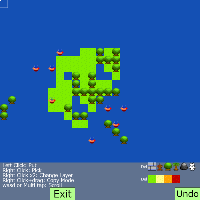
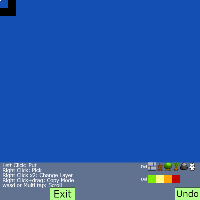
MapEditor2: w a s dでマップ移動を、押しっぱなしで高速移動するように変更。マップの境界を表示。

diff --git a/www/Tools/MapEditor2/js/concat.js b/www/Tools/MapEditor2/js/concat.js
@@ -446,6 +446,9 @@ Tonyu.klass.define({
         new Tonyu.classes.kernel.Button({left: _this.bw*0.5-_this.bhide,top: _this.h-_this.bw*1,width: _this.bw,text: "↓",key: "down",onClick: Tonyu.bindFunc(_this,_this.moveC),autoRepeat: 30});
         new Tonyu.classes.kernel.Button({left: _this.bw*0-_this.bhide,top: _this.h-_this.bw*2,width: _this.bw,text: "←",key: "left",onClick: Tonyu.bindFunc(_this,_this.moveC),autoRepeat: 30});
         new Tonyu.classes.kernel.Button({left: _this.bw*1-_this.bhide,top: _this.h-_this.bw*2,width: _this.bw,text: "→",key: "right",onClick: Tonyu.bindFunc(_this,_this.moveC),autoRepeat: 30});
+        _this.borders = [];
+        
+        _this.drawBorders();
         _this.putB = new Tonyu.classes.kernel.Button({top: _this.h-_this.bw*3,left: _this.bw*3-_this.bhide,width: 100,text: "Put",key: "space",onClick: Tonyu.bindFunc(_this,_this.put)});
         
         new Tonyu.classes.kernel.Button({top: _this.h-_this.bw*3,left: _this.bw*5-_this.bhide,width: 100,text: "Pick",key: "z",onClick: Tonyu.bindFunc(_this,_this.pick)});
@@ -454,7 +457,7 @@ Tonyu.klass.define({
           
         }
         new Tonyu.classes.kernel.Button({top: _this.h-_this.bw*1,left: _this.bw*4,width: 100,text: "Exit",key: "e",onClick: Tonyu.bindFunc(_this,_this.back)});
-        new Tonyu.classes.kernel.Button({top: _this.h-_this.bw*1,left: _this.w-100,width: 100,text: "Undo",key: "u",onClick: (function anonymous_1157() {
+        new Tonyu.classes.kernel.Button({top: _this.h-_this.bw*1,left: _this.w-100,width: 100,text: "Undo",key: "u",onClick: (function anonymous_1187() {
           
           _this.c.undo();
         })});
@@ -470,7 +473,7 @@ Tonyu.klass.define({
         
         Tonyu.globals.$Screen.setPivot(_this.sx,_this.sy);
         Tonyu.globals.$Screen.scrollTo(_this.sx,_this.sy);
-        _this.plw = Tonyu.globals.$Math.max.apply(Tonyu.globals.$Math,_this.config.layers.map((function anonymous_1635(l) {
+        _this.plw = Tonyu.globals.$Math.max.apply(Tonyu.globals.$Math,_this.config.layers.map((function anonymous_1665(l) {
           
           return l.pats.length;
         })));
@@ -479,37 +482,37 @@ Tonyu.klass.define({
         
         _this.c = new Tonyu.classes.mapEditor2.Cursor({x: 0,y: 0,curP: _this.curP});
         
-        _this.on("keyDown","c",(function anonymous_1780() {
+        _this.on("keyDown","c",(function anonymous_1810() {
           
           _this.curP.shift(1);
         }));
-        _this.on("keyDown","x",(function anonymous_1829() {
+        _this.on("keyDown","x",(function anonymous_1859() {
           
           _this.curP.shift(- 1);
         }));
-        _this.on("keyDown","q",(function anonymous_1879() {
+        _this.on("keyDown","q",(function anonymous_1909() {
           
           _this.curP.changeLayer();
         }));
-        _this.on("keyDown","d",(function anonymous_1927() {
+        _this.on("autoRepeat","d",(function anonymous_1960() {
           
           _this.scrollTo(_this.sx+32,_this.sy,_this.zoom);
         }));
-        _this.on("keyDown","a",(function anonymous_1980() {
+        _this.on("autoRepeat","a",(function anonymous_2016() {
           
           _this.scrollTo(_this.sx-32,_this.sy,_this.zoom);
         }));
-        _this.on("keyDown","s",(function anonymous_2033() {
+        _this.on("autoRepeat","s",(function anonymous_2072() {
           
           _this.scrollTo(_this.sx,_this.sy+32,_this.zoom);
         }));
-        _this.on("keyDown","w",(function anonymous_2086() {
+        _this.on("autoRepeat","w",(function anonymous_2128() {
           
           _this.scrollTo(_this.sx,_this.sy-32,_this.zoom);
         }));
         
         
-        _this.mmove = Tonyu.globals.$InputDevice.on("mouseMove",(function anonymous_2633(e) {
+        _this.mmove = Tonyu.globals.$InputDevice.on("mouseMove",(function anonymous_2675(e) {
           var cv;
           var csz;
           
@@ -529,7 +532,7 @@ Tonyu.klass.define({
           _this.lastMousePos={x: cv.x,y: cv.y};
         }));
         
-        _this.on("die",(function anonymous_2940() {
+        _this.on("die",(function anonymous_2982() {
           
           _this.mmove.remove();
         }));
@@ -540,7 +543,7 @@ Tonyu.klass.define({
         _this.mapToucher = new Tonyu.classes.kernel.Panel({width: Tonyu.globals.$screenWidth,height: _this.h-_this.menuPanel.height,layer: Tonyu.globals.$frontLayer});
         
         
-        _this.mapToucher.on("touch",(function anonymous_3381(e) {
+        _this.mapToucher.on("touch",(function anonymous_3423(e) {
           var f;
           var csz;
           var s;
@@ -564,14 +567,14 @@ Tonyu.klass.define({
             return _this;
             
           } else {
-            s = {rollbacker: _this.c.rollbacker(),finger: f,rollback: (function anonymous_3954() {
+            s = {rollbacker: _this.c.rollbacker(),finger: f,rollback: (function anonymous_3996() {
               
               s.rollbacker.rollback();
               s.endEvent.remove();
               if (s.moveEvent) {
                 s.moveEvent.remove();
               }
-            }),endEvent: f.on("end",(function anonymous_4143() {
+            }),endEvent: f.on("end",(function anonymous_4185() {
               
               _this.singleTouchState=null;
             }))};
@@ -587,7 +590,7 @@ Tonyu.klass.define({
               
             }
             _this.pick();
-            f.on("move",(function anonymous_4512(e) {
+            f.on("move",(function anonymous_4554(e) {
               var moved;
               
               moved = _this.c.sel(_this.floor(e.finger.x/csz.w),_this.floor(e.finger.y/csz.h));
@@ -613,7 +616,7 @@ Tonyu.klass.define({
               moved = _this.c.moveTo(_this.floor(e.finger.x/csz.w),_this.floor(e.finger.y/csz.h));
               
               _this.put();
-              _this.singleTouchState.moveEvent=f.on("move",(function anonymous_5121(e) {
+              _this.singleTouchState.moveEvent=f.on("move",(function anonymous_5163(e) {
                 var moved;
                 
                 moved = _this.c.moveTo(_this.floor(e.finger.x/csz.w),_this.floor(e.finger.y/csz.h));
@@ -656,6 +659,9 @@ Tonyu.klass.define({
         new Tonyu.classes.kernel.Button({left: _this.bw*0.5-_this.bhide,top: _this.h-_this.bw*1,width: _this.bw,text: "↓",key: "down",onClick: Tonyu.bindFunc(_this,_this.moveC),autoRepeat: 30});
         new Tonyu.classes.kernel.Button({left: _this.bw*0-_this.bhide,top: _this.h-_this.bw*2,width: _this.bw,text: "←",key: "left",onClick: Tonyu.bindFunc(_this,_this.moveC),autoRepeat: 30});
         new Tonyu.classes.kernel.Button({left: _this.bw*1-_this.bhide,top: _this.h-_this.bw*2,width: _this.bw,text: "→",key: "right",onClick: Tonyu.bindFunc(_this,_this.moveC),autoRepeat: 30});
+        _this.borders = [];
+        
+        (yield* _this.fiber$drawBorders(_thread));
         _this.putB = new Tonyu.classes.kernel.Button({top: _this.h-_this.bw*3,left: _this.bw*3-_this.bhide,width: 100,text: "Put",key: "space",onClick: Tonyu.bindFunc(_this,_this.put)});
         
         new Tonyu.classes.kernel.Button({top: _this.h-_this.bw*3,left: _this.bw*5-_this.bhide,width: 100,text: "Pick",key: "z",onClick: Tonyu.bindFunc(_this,_this.pick)});
@@ -664,7 +670,7 @@ Tonyu.klass.define({
           
         }
         new Tonyu.classes.kernel.Button({top: _this.h-_this.bw*1,left: _this.bw*4,width: 100,text: "Exit",key: "e",onClick: Tonyu.bindFunc(_this,_this.back)});
-        new Tonyu.classes.kernel.Button({top: _this.h-_this.bw*1,left: _this.w-100,width: 100,text: "Undo",key: "u",onClick: (function anonymous_1157() {
+        new Tonyu.classes.kernel.Button({top: _this.h-_this.bw*1,left: _this.w-100,width: 100,text: "Undo",key: "u",onClick: (function anonymous_1187() {
           
           _this.c.undo();
         })});
@@ -680,7 +686,7 @@ Tonyu.klass.define({
         
         Tonyu.globals.$Screen.setPivot(_this.sx,_this.sy);
         Tonyu.globals.$Screen.scrollTo(_this.sx,_this.sy);
-        _this.plw = Tonyu.globals.$Math.max.apply(Tonyu.globals.$Math,_this.config.layers.map((function anonymous_1635(l) {
+        _this.plw = Tonyu.globals.$Math.max.apply(Tonyu.globals.$Math,_this.config.layers.map((function anonymous_1665(l) {
           
           return l.pats.length;
         })));
@@ -689,37 +695,37 @@ Tonyu.klass.define({
         
         _this.c = new Tonyu.classes.mapEditor2.Cursor({x: 0,y: 0,curP: _this.curP});
         
-        _this.on("keyDown","c",(function anonymous_1780() {
+        _this.on("keyDown","c",(function anonymous_1810() {
           
           _this.curP.shift(1);
         }));
-        _this.on("keyDown","x",(function anonymous_1829() {
+        _this.on("keyDown","x",(function anonymous_1859() {
           
           _this.curP.shift(- 1);
         }));
-        _this.on("keyDown","q",(function anonymous_1879() {
+        _this.on("keyDown","q",(function anonymous_1909() {
           
           _this.curP.changeLayer();
         }));
-        _this.on("keyDown","d",(function anonymous_1927() {
+        _this.on("autoRepeat","d",(function anonymous_1960() {
           
           _this.scrollTo(_this.sx+32,_this.sy,_this.zoom);
         }));
-        _this.on("keyDown","a",(function anonymous_1980() {
+        _this.on("autoRepeat","a",(function anonymous_2016() {
           
           _this.scrollTo(_this.sx-32,_this.sy,_this.zoom);
         }));
-        _this.on("keyDown","s",(function anonymous_2033() {
+        _this.on("autoRepeat","s",(function anonymous_2072() {
           
           _this.scrollTo(_this.sx,_this.sy+32,_this.zoom);
         }));
-        _this.on("keyDown","w",(function anonymous_2086() {
+        _this.on("autoRepeat","w",(function anonymous_2128() {
           
           _this.scrollTo(_this.sx,_this.sy-32,_this.zoom);
         }));
         
         
-        _this.mmove = Tonyu.globals.$InputDevice.on("mouseMove",(function anonymous_2633(e) {
+        _this.mmove = Tonyu.globals.$InputDevice.on("mouseMove",(function anonymous_2675(e) {
           var cv;
           var csz;
           
@@ -739,7 +745,7 @@ Tonyu.klass.define({
           _this.lastMousePos={x: cv.x,y: cv.y};
         }));
         
-        _this.on("die",(function anonymous_2940() {
+        _this.on("die",(function anonymous_2982() {
           
           _this.mmove.remove();
         }));
@@ -750,7 +756,7 @@ Tonyu.klass.define({
         _this.mapToucher = new Tonyu.classes.kernel.Panel({width: Tonyu.globals.$screenWidth,height: _this.h-_this.menuPanel.height,layer: Tonyu.globals.$frontLayer});
         
         
-        _this.mapToucher.on("touch",(function anonymous_3381(e) {
+        _this.mapToucher.on("touch",(function anonymous_3423(e) {
           var f;
           var csz;
           var s;
@@ -774,14 +780,14 @@ Tonyu.klass.define({
             return _this;
             
           } else {
-            s = {rollbacker: _this.c.rollbacker(),finger: f,rollback: (function anonymous_3954() {
+            s = {rollbacker: _this.c.rollbacker(),finger: f,rollback: (function anonymous_3996() {
               
               s.rollbacker.rollback();
               s.endEvent.remove();
               if (s.moveEvent) {
                 s.moveEvent.remove();
               }
-            }),endEvent: f.on("end",(function anonymous_4143() {
+            }),endEvent: f.on("end",(function anonymous_4185() {
               
               _this.singleTouchState=null;
             }))};
@@ -797,7 +803,7 @@ Tonyu.klass.define({
               
             }
             _this.pick();
-            f.on("move",(function anonymous_4512(e) {
+            f.on("move",(function anonymous_4554(e) {
               var moved;
               
               moved = _this.c.sel(_this.floor(e.finger.x/csz.w),_this.floor(e.finger.y/csz.h));
@@ -823,7 +829,7 @@ Tonyu.klass.define({
               moved = _this.c.moveTo(_this.floor(e.finger.x/csz.w),_this.floor(e.finger.y/csz.h));
               
               _this.put();
-              _this.singleTouchState.moveEvent=f.on("move",(function anonymous_5121(e) {
+              _this.singleTouchState.moveEvent=f.on("move",(function anonymous_5163(e) {
                 var moved;
                 
                 moved = _this.c.moveTo(_this.floor(e.finger.x/csz.w),_this.floor(e.finger.y/csz.h));
@@ -1126,11 +1132,19 @@ Tonyu.klass.define({
         var _this=this;
         
         _this.c.put(_this.curP);
+        if (_this.curP==- 1) {
+          Tonyu.globals.$map.pack();
+        }
+        _this.drawBorders();
       },
       fiber$put :function* _trc_Edit_f_put(_thread) {
         var _this=this;
         
         _this.c.put(_this.curP);
+        if (_this.curP==- 1) {
+          Tonyu.globals.$map.pack();
+        }
+        (yield* _this.fiber$drawBorders(_thread));
         
       },
       pick :function _trc_Edit_pick() {
@@ -1190,10 +1204,51 @@ Tonyu.klass.define({
         
         
       },
+      drawBorders :function _trc_Edit_drawBorders() {
+        var _this=this;
+        
+        let cw = Tonyu.globals.$map.chipWidth||32;
+        
+        let ch = Tonyu.globals.$map.chipHeight||32;
+        
+        let w = cw*(Tonyu.globals.$map.col||1);
+        
+        let h = ch*(Tonyu.globals.$map.row||1);
+        
+        for (let [b] of Tonyu.iterator2(_this.borders,1)) {
+          b.die();
+        }
+        _this.borders=[];
+        _this.borders.push(new Tonyu.classes.kernel.Actor({x: - cw/2,y: h/2,width: cw,height: h+ch*2,fillStyle: "black"}));
+        _this.borders.push(new Tonyu.classes.kernel.Actor({x: w/2,y: - ch/2,width: w+cw*2,height: ch,fillStyle: "black"}));
+        _this.borders.push(new Tonyu.classes.kernel.Actor({x: w+cw/2,y: h/2,width: cw,height: h+ch*2,fillStyle: "black"}));
+        _this.borders.push(new Tonyu.classes.kernel.Actor({x: w/2,y: h+ch/2,width: w+cw*2,height: ch,fillStyle: "black"}));
+      },
+      fiber$drawBorders :function* _trc_Edit_f_drawBorders(_thread) {
+        var _this=this;
+        
+        let cw = Tonyu.globals.$map.chipWidth||32;
+        
+        let ch = Tonyu.globals.$map.chipHeight||32;
+        
+        let w = cw*(Tonyu.globals.$map.col||1);
+        
+        let h = ch*(Tonyu.globals.$map.row||1);
+        
+        for (let [b] of Tonyu.iterator2(_this.borders,1)) {
+          b.die();
+        }
+        _this.borders=[];
+        _this.borders.push(new Tonyu.classes.kernel.Actor({x: - cw/2,y: h/2,width: cw,height: h+ch*2,fillStyle: "black"}));
+        _this.borders.push(new Tonyu.classes.kernel.Actor({x: w/2,y: - ch/2,width: w+cw*2,height: ch,fillStyle: "black"}));
+        _this.borders.push(new Tonyu.classes.kernel.Actor({x: w+cw/2,y: h/2,width: cw,height: h+ch*2,fillStyle: "black"}));
+        _this.borders.push(new Tonyu.classes.kernel.Actor({x: w/2,y: h+ch/2,width: w+cw*2,height: ch,fillStyle: "black"}));
+        
+      },
       __dummy: false
     };
   },
-  decls: {"methods":{"main":{"nowait":false,"isMain":true,"vtype":{"params":[],"returnValue":null}},"scrollTo":{"nowait":false,"isMain":false,"vtype":{"params":[null,null,null],"returnValue":null}},"zoomAt":{"nowait":false,"isMain":false,"vtype":{"params":[null,null,null],"returnValue":null}},"procMulti":{"nowait":false,"isMain":false,"vtype":{"params":[null],"returnValue":null}},"moveC":{"nowait":false,"isMain":false,"vtype":{"params":[null],"returnValue":null}},"getChipSize":{"nowait":false,"isMain":false,"vtype":{"params":[null],"returnValue":null}},"put":{"nowait":false,"isMain":false,"vtype":{"params":[],"returnValue":null}},"pick":{"nowait":false,"isMain":false,"vtype":{"params":[],"returnValue":null}},"save":{"nowait":false,"isMain":false,"vtype":{"params":[],"returnValue":null}},"play":{"nowait":false,"isMain":false,"vtype":{"params":[],"returnValue":null}},"back":{"nowait":false,"isMain":false,"vtype":{"params":[],"returnValue":null}},"modified":{"nowait":false,"isMain":false,"vtype":{"params":[],"returnValue":null}}},"fields":{"mapFile":{},"config":{},"bw":{},"h":{},"w":{},"bhide":{},"putB":{},"menuPanelHeight":{},"sx":{},"sy":{},"zoom":{},"plw":{},"curP":{},"c":{},"lastMousePos":{},"dstCur":{},"mmove":{},"menuPanel":{},"mapToucher":{},"singleTouchState":{},"multiTouchState":{}}}
+  decls: {"methods":{"main":{"nowait":false,"isMain":true,"vtype":{"params":[],"returnValue":null}},"scrollTo":{"nowait":false,"isMain":false,"vtype":{"params":[null,null,null],"returnValue":null}},"zoomAt":{"nowait":false,"isMain":false,"vtype":{"params":[null,null,null],"returnValue":null}},"procMulti":{"nowait":false,"isMain":false,"vtype":{"params":[null],"returnValue":null}},"moveC":{"nowait":false,"isMain":false,"vtype":{"params":[null],"returnValue":null}},"getChipSize":{"nowait":false,"isMain":false,"vtype":{"params":[null],"returnValue":null}},"put":{"nowait":false,"isMain":false,"vtype":{"params":[],"returnValue":null}},"pick":{"nowait":false,"isMain":false,"vtype":{"params":[],"returnValue":null}},"save":{"nowait":false,"isMain":false,"vtype":{"params":[],"returnValue":null}},"play":{"nowait":false,"isMain":false,"vtype":{"params":[],"returnValue":null}},"back":{"nowait":false,"isMain":false,"vtype":{"params":[],"returnValue":null}},"modified":{"nowait":false,"isMain":false,"vtype":{"params":[],"returnValue":null}},"drawBorders":{"nowait":false,"isMain":false,"vtype":{"params":[],"returnValue":null}}},"fields":{"mapFile":{},"config":{},"bw":{},"h":{},"w":{},"bhide":{},"borders":{},"putB":{},"menuPanelHeight":{},"sx":{},"sy":{},"zoom":{},"plw":{},"curP":{},"c":{},"lastMousePos":{},"dstCur":{},"mmove":{},"menuPanel":{},"mapToucher":{},"singleTouchState":{},"multiTouchState":{}}}
 });
 Tonyu.klass.define({
   fullName: 'mapEditor2.MapFiles',
